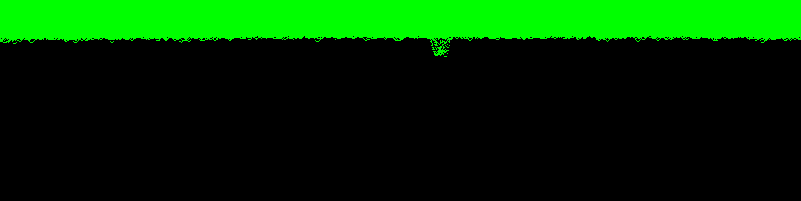
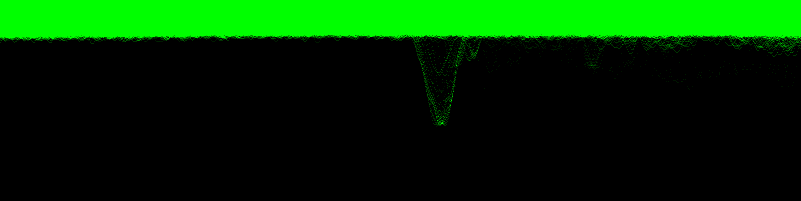
voice  command frequency changes

Changed region(s): [[0.0, 0.1791, 1.0, 0.6269]]

diff --git a/Hololens Demo/Assets/ChangeFrequency.cs b/Hololens Demo/Assets/ChangeFrequency.cs
@@ -9,19 +9,22 @@ public class ChangeFrequency : MonoBehaviour
 {
 
     [DllImport("rsa_api", EntryPoint = "CONFIG_SetCenterFreq")]
-    private static extern ReturnStatus CONFIG_SetCenterFreq(double freqOffsetHz);
+    private static extern ReturnStatus CONFIG_SetCenterFreq(double cf);
+
+    [DllImport("rsa_api", EntryPoint = "CONFIG_GetCenterFreq")]
+    private static extern ReturnStatus CONFIG_GetCenterFreq(ref double cf);
 
     [DllImport("rsa_api", EntryPoint = "DPX_Reset")]
     private static extern ReturnStatus DPX_Reset();
 
     private const double FREQUENCY_MIN =  0.0;
     private const double FREQUENCY_MAX = 10.0e9;
-
+    private double frequency;
 
     // Start is called before the first frame update
     void Start()
     {
-
+        
     }
 
     // Update is called once per frame
@@ -32,7 +35,9 @@ public class ChangeFrequency : MonoBehaviour
 
     public void IncreaseFrequency()
     {
+        CONFIG_GetCenterFreq(ref frequency);
         DPX_Config dpxConfig = getDPXConfig();
+        dpxConfig.cf = frequency;
         Debug.Log($"Frequency Before = {dpxConfig.cf} Hz");
         double newFreq = dpxConfig.cf + 0.01e9;
         if (newFreq < FREQUENCY_MAX){
@@ -45,7 +50,9 @@ public class ChangeFrequency : MonoBehaviour
 
     public void DecreaseFrequency()
     {
+        CONFIG_GetCenterFreq(ref frequency);
         DPX_Config dpxConfig = getDPXConfig();
+        dpxConfig.cf = frequency;
         Debug.Log($"Frequency Before = {dpxConfig.cf} Hz");
         double newFreq = dpxConfig.cf - 0.01e9;
         if(newFreq > FREQUENCY_MIN){

diff --git a/Hololens Demo/Assets/DPXVoiceCommands.cs b/Hololens Demo/Assets/DPXVoiceCommands.cs
@@ -18,32 +18,26 @@ public class DPXVoiceCommands : MonoBehaviour
         Debug.Log("Adding keywords to recognizer"); 
         keywords.Add("increase frequency", () =>
         {
-            Debug.Log(gameObject);
             gameObject.GetComponent<ChangeFrequency>().IncreaseFrequency();
         });
         keywords.Add("decrease frequency", () =>
         {
-            Debug.Log(gameObject);
             gameObject.GetComponent<ChangeFrequency>().DecreaseFrequency();
         });
         keywords.Add("increase span", () =>
         {
-            Debug.Log(gameObject);
             gameObject.GetComponent<ChangeSpan>().IncreaseSpan();
         });
         keywords.Add("decrease span", () =>
         {
-            Debug.Log(gameObject);
             gameObject.GetComponent<ChangeSpan>().DecreaseSpan();
         });
         keywords.Add("increase amplitude", () =>
         {
-            Debug.Log(gameObject);
             gameObject.GetComponent<ChangeRefLevel>().IncreaseRefLevel();
         });
         keywords.Add("decrease amplitude", () =>
         {
-            Debug.Log(gameObject);
             gameObject.GetComponent<ChangeRefLevel>().DecreaseRefLevel();
         });
         keywordRecognizer = new KeywordRecognizer(keywords.Keys.ToArray());

diff --git a/Hololens Demo/Assets/ChangeRefLevel.cs b/Hololens Demo/Assets/ChangeRefLevel.cs
@@ -75,24 +75,4 @@ public class ChangeRefLevel : MonoBehaviour
         }
         Debug.Log($"Reference Level is now {refLevel}");
     }
-
-    /*public void UpdateRefLevel(double newRefLevel) 
-    {
-        CONFIG_GetReferenceLevel(ref refLevel);
-        Debug.Log($"Reference Level is now {refLevel}");
-        if (newRefLevel >= REF_LEVEL_MIN && newRefLevel <= REF_LEVEL_MAX)
-        {
-            error = CONFIG_SetReferenceLevel(newRefLevel);
-            if (error == 0)
-            {
-                DPX_Reset(); // Reset is necessary as the RSA will not update settings without resetting DPX first
-                CONFIG_GetReferenceLevel(ref refLevel);
-            }
-            else
-            {
-                Debug.Log($"ERROR: CONFIG_SetReferenceLevel returned error code: {error}.");
-            }
-        }
-        Debug.Log($"Reference Level is now {refLevel}");
-    }*/
 }

diff --git a/Hololens Demo/Assets/RSAAPITest.cs b/Hololens Demo/Assets/RSAAPITest.cs
@@ -254,18 +254,15 @@ public unsafe class RSAAPITest : MonoBehaviour
 
         DPX_SettingStruct dpxSettings = new DPX_SettingStruct();
         DPX_Config dpxConfig = new DPX_Config();
-        //UnityEngine.Debug.Log(dpxSettings.bitmapHeight * dpxSettings.bitmapWidth);
-
-            
+        dpxConfig.cf = 2400000000.00;
+        dpxConfig.rbw = 300000;
+        dpxConfig.span = 40000000;
+        dpxConfig.refLevel = -20.0;
 
         error = CONFIG_SetCenterFreq(2400000000.00);
         CONFIG_SetReferenceLevel(-20.0);
 
         error = DPX_SetParameters(40000000, 300000, 801, 1, 0, 0, -100, false, 1, false);
-        dpxConfig.cf = 2400000000.00;
-        dpxConfig.rbw = 300000;
-        dpxConfig.span = 40000000;
-        dpxConfig.refLevel = -20.0;
         error = DPX_SetSpectrumTraceType(0, TraceType.TraceTypeAverage);
         error = DPX_Configure(true, false);
 
